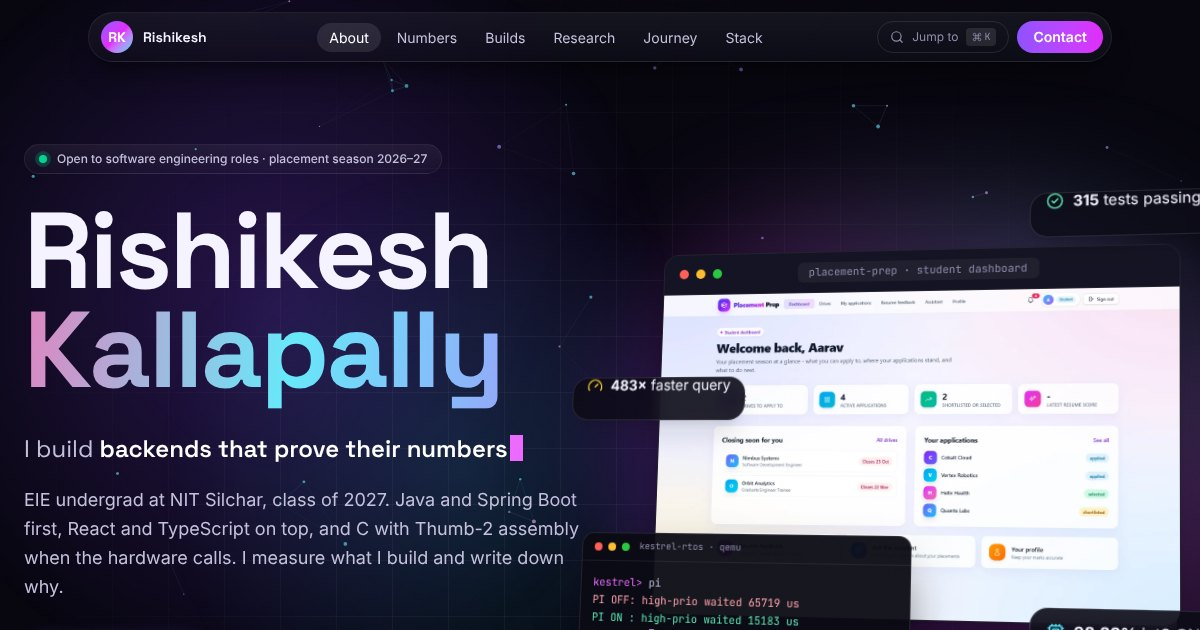
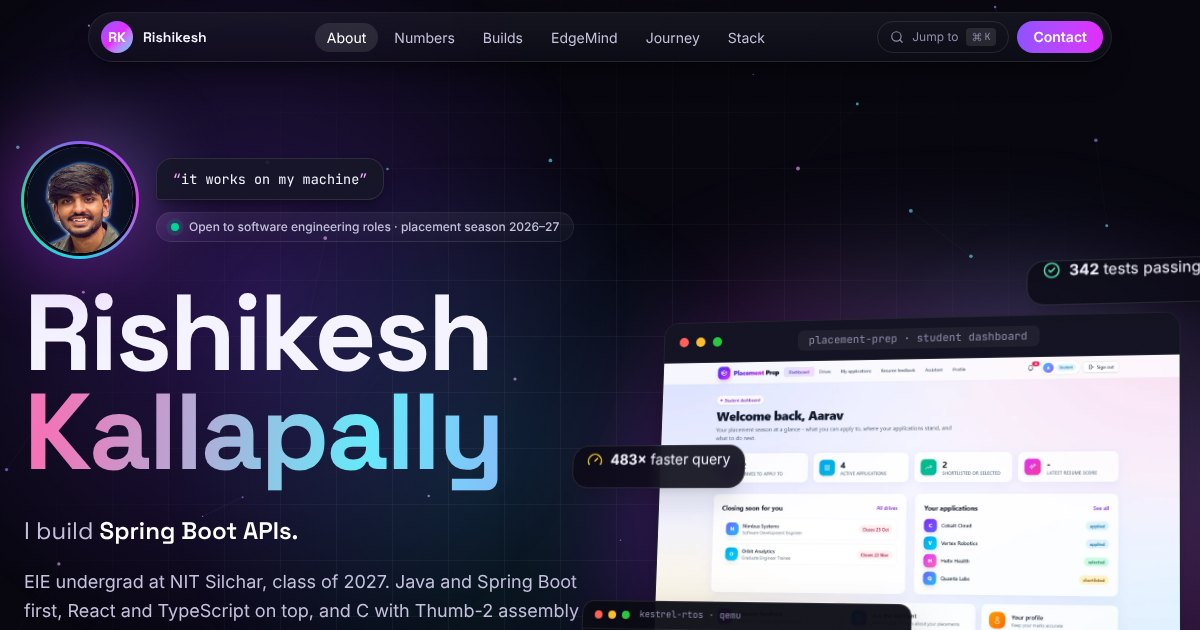
docs: add tiny-reasoner and the photo to the README and preview image
Claude-Session: https://claude.ai/code/session_01FfbDr9AR142nMotuCmZ1Kp

diff --git a/README.md b/README.md
@@ -11,10 +11,10 @@ behind it. Built with the same frontend stack I use in my projects: **React 19, 
 
 | Section | What it shows |
 |---|---|
-| Hero | Name, typing role line, a 3D-tilting collage of real screenshots, a pointer-reactive particle field, headline numbers |
+| Hero | Photo with a quote bubble, name, typing role line, a 3D-tilting collage of real screenshots, a pointer-reactive particle field, headline numbers |
 | 01 · whoami | A typing terminal, education, EdgeMind, what I'm building now, how I work |
 | 02 · Contributions | Tests, commits, lines of code and docs counted from the repos, with breakdowns by language and by repo |
-| 03 · Featured builds | Deep dives into [placement-prep](https://github.com/RishitheB0T/placement-prep), [product-catalog-service](https://github.com/RishitheB0T/product-catalog-service), [kestrel-rtos](https://github.com/RishitheB0T/kestrel-rtos) and [RL_PID](https://github.com/RishitheB0T/RL_PID) |
+| 03 · Featured builds | Deep dives into [placement-prep](https://github.com/RishitheB0T/placement-prep), [product-catalog-service](https://github.com/RishitheB0T/product-catalog-service), [kestrel-rtos](https://github.com/RishitheB0T/kestrel-rtos), [RL_PID](https://github.com/RishitheB0T/RL_PID) and [tiny-reasoner](https://github.com/RishitheB0T/tiny-reasoner) |
 | 04 · Edge ML | EdgeMind: vibration fault detection on an STM32F407 |
 | 05 · Journey | An animated timeline from 2023 to placement season |
 | 06 · Stack | Five layers of tools; pick a project to light up the tools it uses |
@@ -23,7 +23,8 @@ behind it. Built with the same frontend stack I use in my projects: **React 19, 
 Interactive pieces: an auto-playing screenshot gallery with a full-screen lightbox, an animated architecture diagram, a
 replay of the AI assistant's tool calls, a log-scale query benchmark chart, k6 load-test charts, the storefront on
 desktop and phone, an animated Redis cache-flow diagram, a replay of the RTOS shell, the kernel's priority-inversion
-trace, the RL_PID agent's live demo with its results against the published agent, and a command palette (press <kbd>Ctrl</kbd>+<kbd>K</kbd>
+trace, the RL_PID agent's live demo with its results against the published agent, tiny-reasoner's worked answers with its
+RL-vs-SFT accuracy and speed-up charts, and a command palette (press <kbd>Ctrl</kbd>+<kbd>K</kbd>
 or <kbd>⌘</kbd>+<kbd>K</kbd>).
 
 Every number on the page comes from the project repositories. Charts have hover and keyboard tooltips and a "view as
